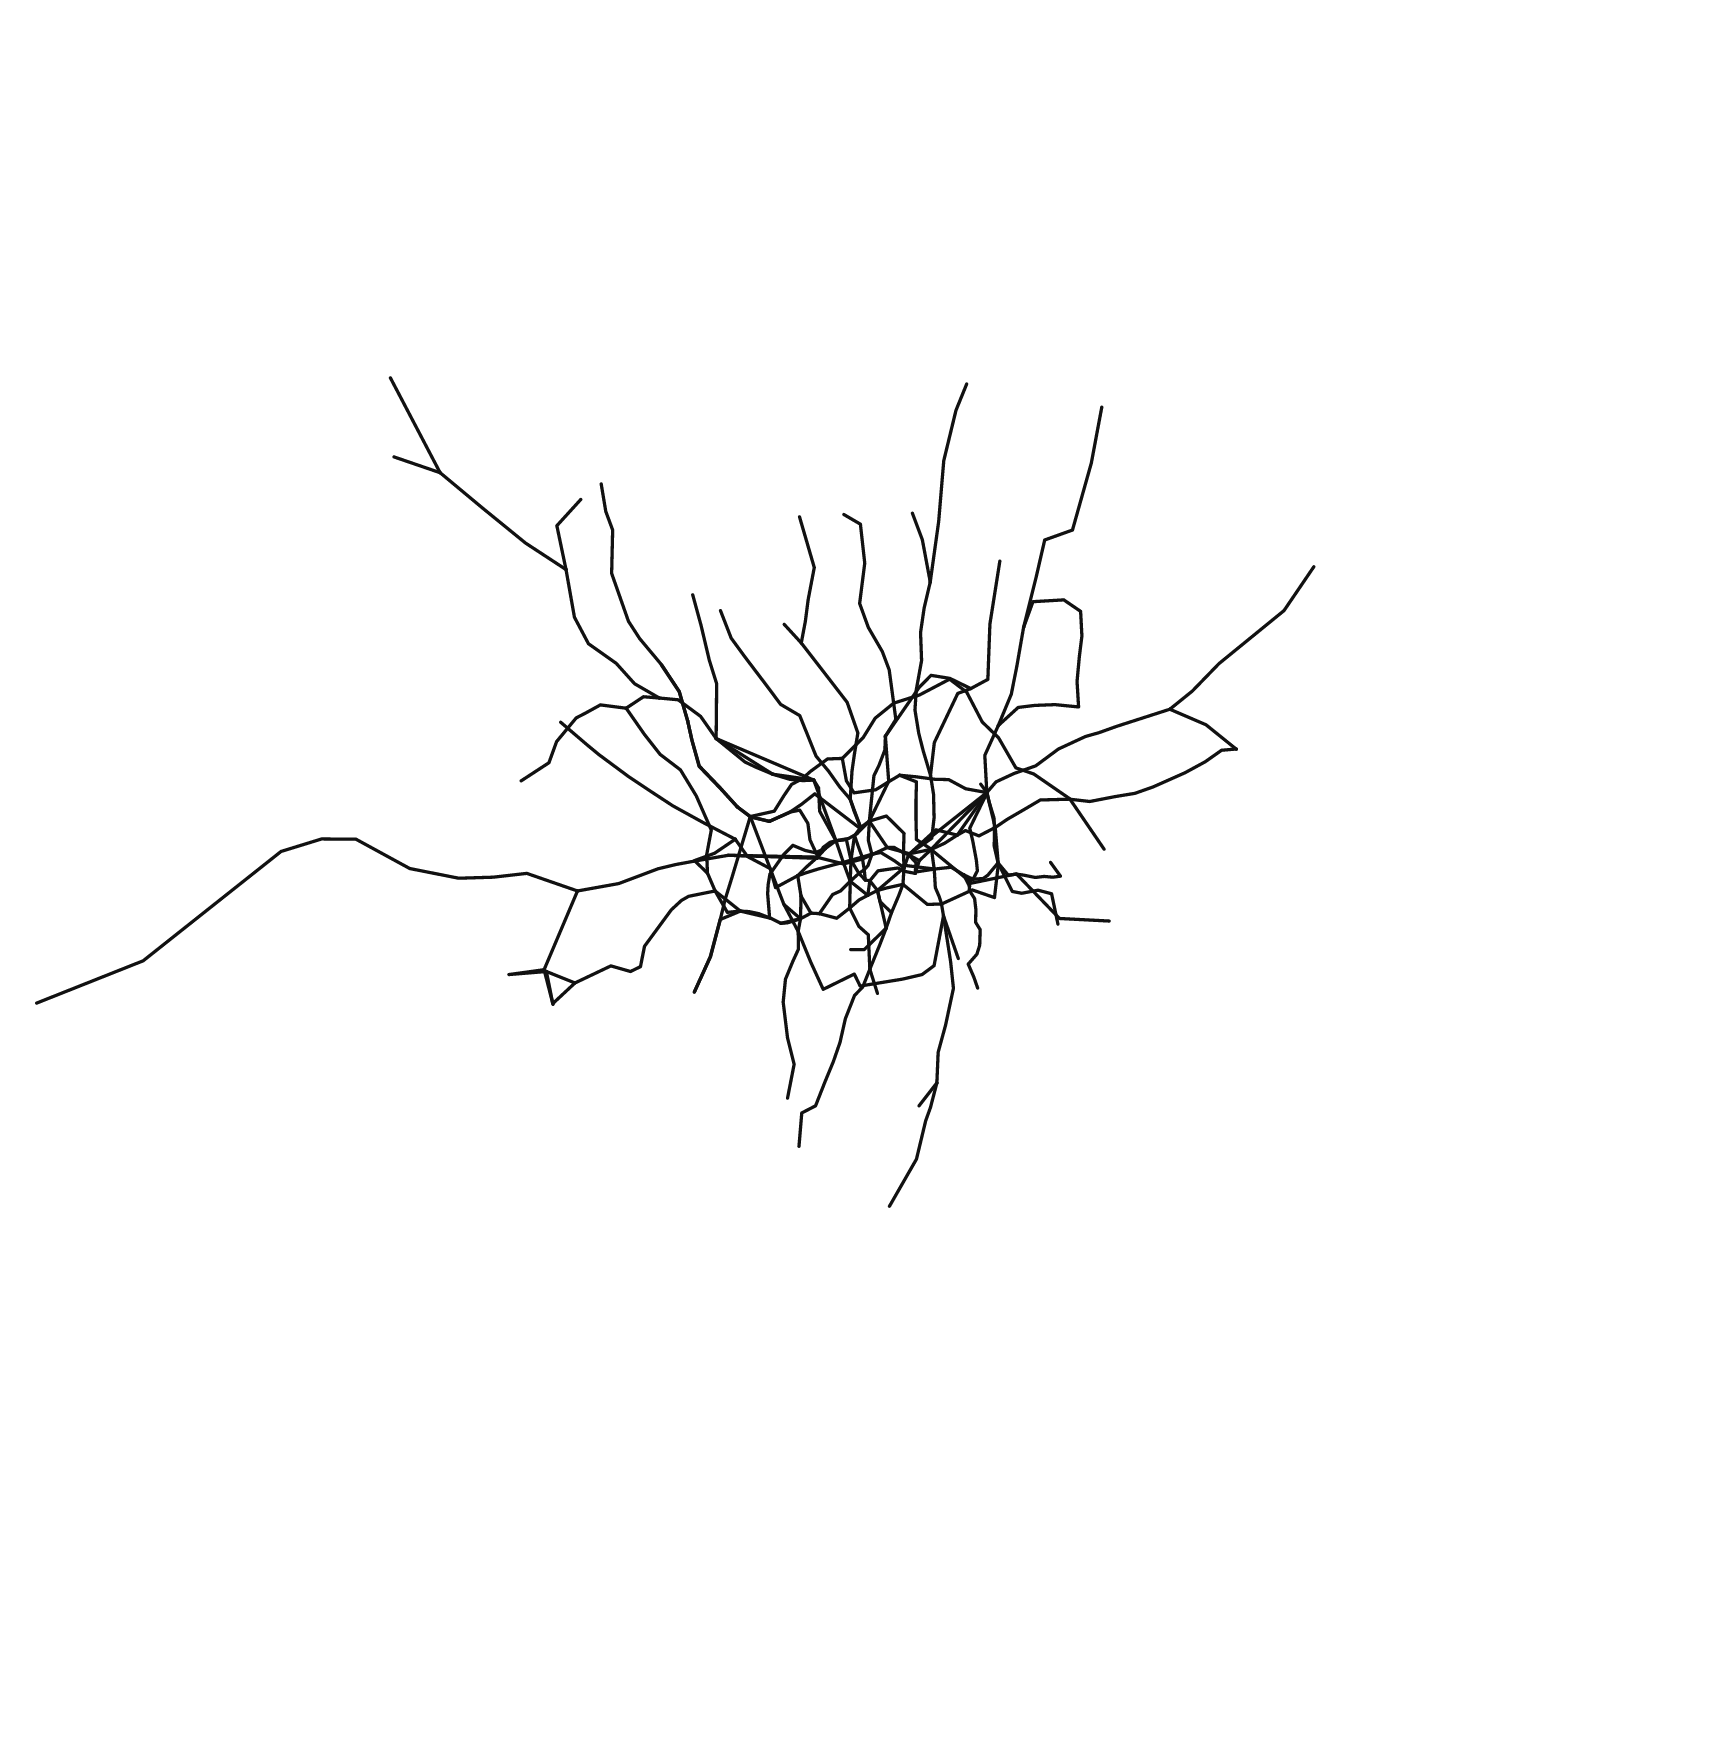
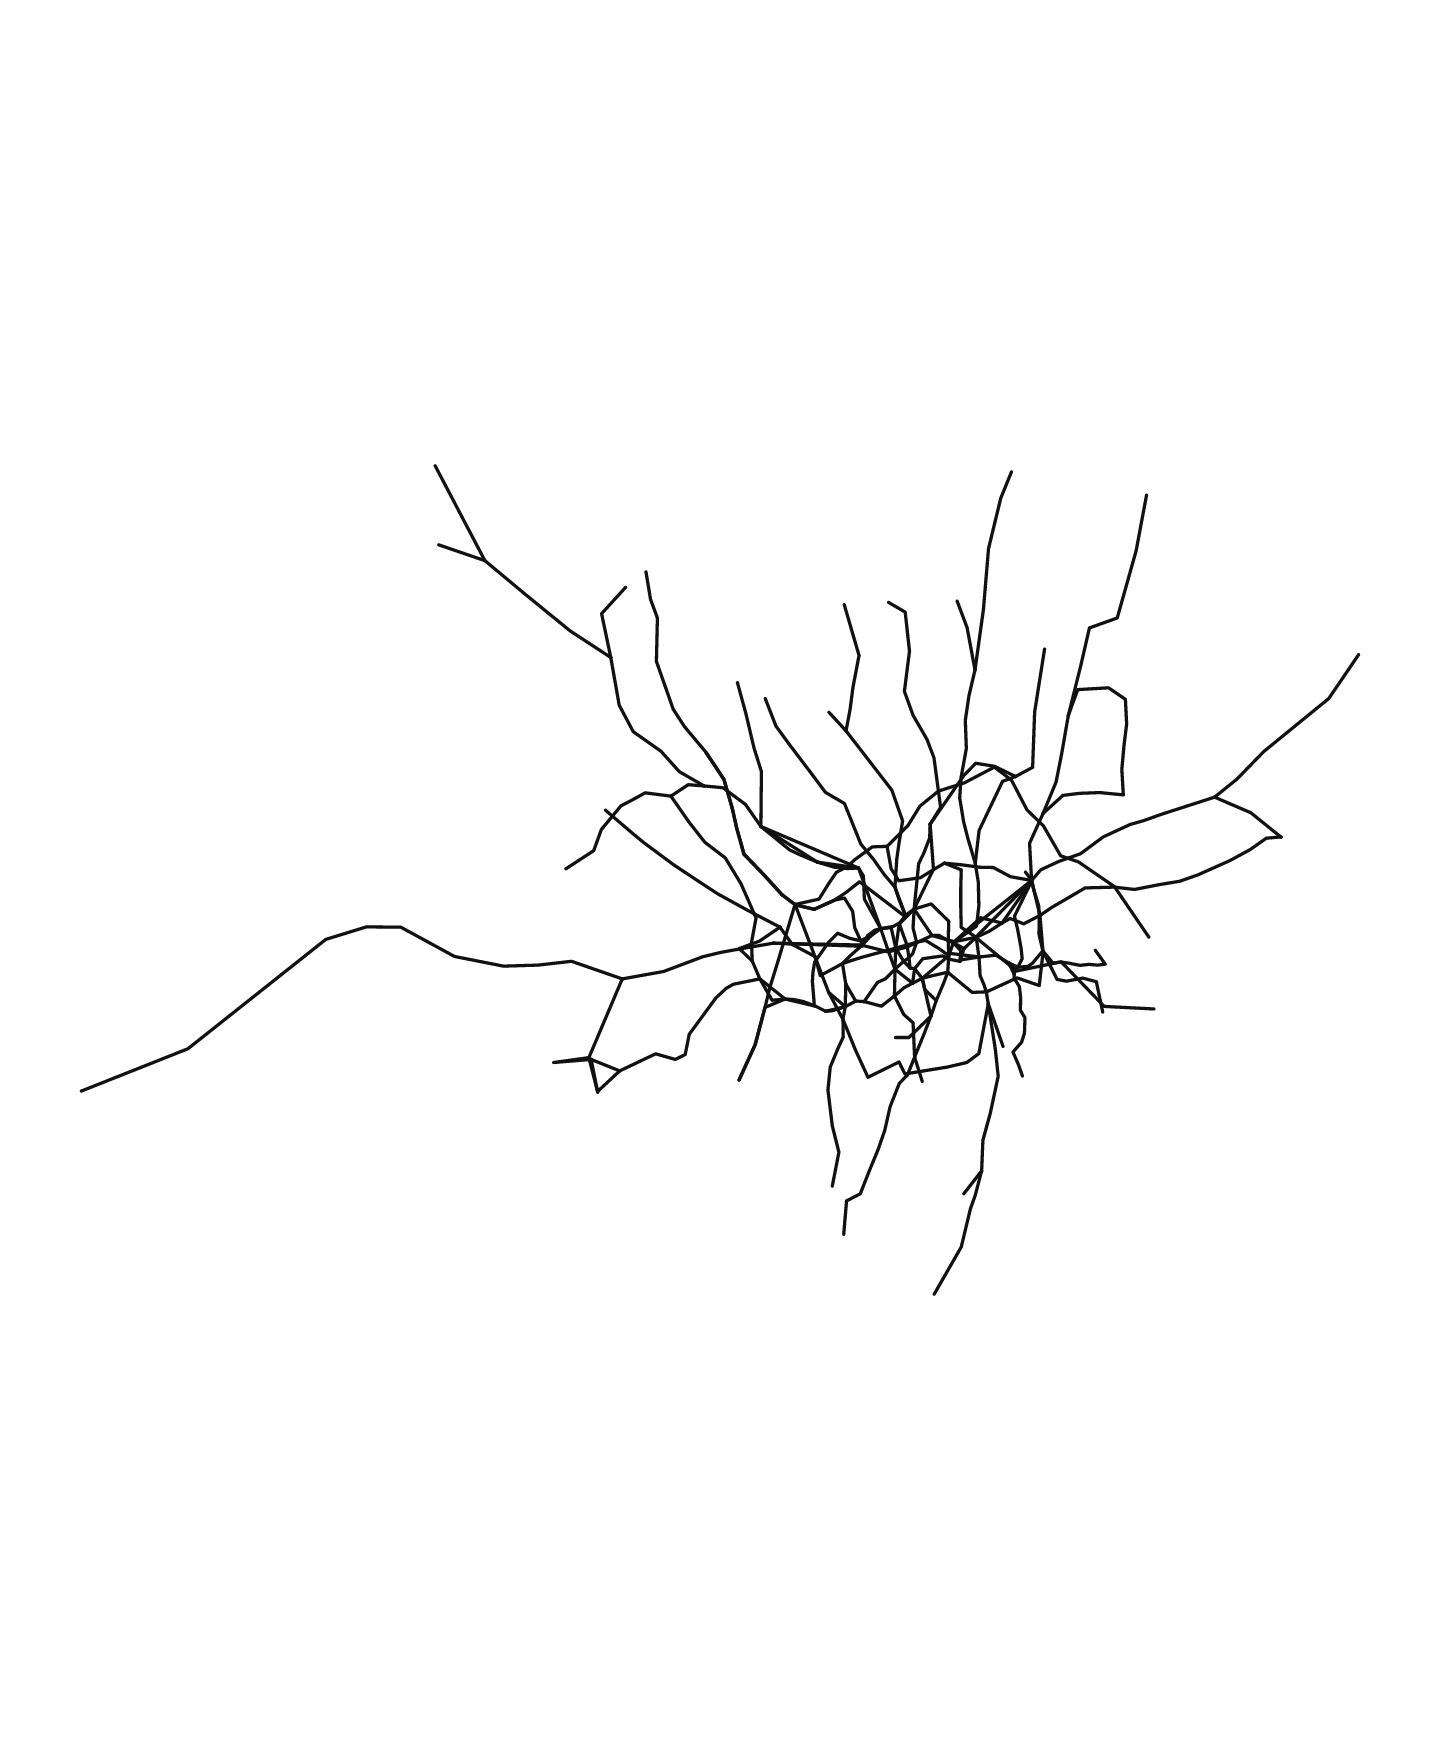
Center full-card detail diagrams and remove marker border

diff --git a/src/lib/overview-diagram.js b/src/lib/overview-diagram.js
@@ -101,13 +101,29 @@ export function getOverviewDiagramLayout({
   minWidth = OVERVIEW_BASE_WIDTH,
   minHeight = OVERVIEW_BASE_HEIGHT,
   diagramScale = 1,
-  planePadding = OVERVIEW_SAFE_INSET
+  planePadding = OVERVIEW_SAFE_INSET,
+  centerContent = false
 }) {
   const targetScale = diagramScale * OVERVIEW_SCALE_BIAS;
-  const { paths: localPaths } = getOverviewDisplayPaths({
+  let { paths: localPaths } = getOverviewDisplayPaths({
     city,
     diagramScale: targetScale
   });
+
+  if (centerContent) {
+    const contentBounds = getPathBounds(localPaths);
+
+    if (contentBounds) {
+      localPaths = localPaths.map((path) =>
+        translatePath(
+          path,
+          -((contentBounds.minX + contentBounds.maxX) / 2),
+          -((contentBounds.minY + contentBounds.maxY) / 2)
+        )
+      );
+    }
+  }
+
   const referenceRadius = REFERENCE_RADIUS_PIXELS * targetScale;
   const bounds = getPathBounds(localPaths);
   const halfWidth = Math.max(

diff --git a/src/gallery-app.js b/src/gallery-app.js
@@ -1350,7 +1350,8 @@ function loadDetailDiagram(card, requestId) {
         minWidth: DETAIL_BASE_WIDTH,
         minHeight: DETAIL_BASE_HEIGHT,
         diagramScale: DETAIL_DIAGRAM_SCALE,
-        planePadding: DETAIL_SAFE_INSET
+        planePadding: DETAIL_SAFE_INSET,
+        centerContent: true
       });
 
       return {

diff --git a/src/styles.css b/src/styles.css
@@ -1129,8 +1129,7 @@ body.body--detail-open {
 
 .detail-card__country-marker-pin {
   fill: rgba(var(--card-accent-rgb), 0.96);
-  stroke: rgba(17, 17, 17, 0.64);
-  stroke-width: 0.85;
+  stroke: none;
 }
 
 .detail-card__country-marker-core {
